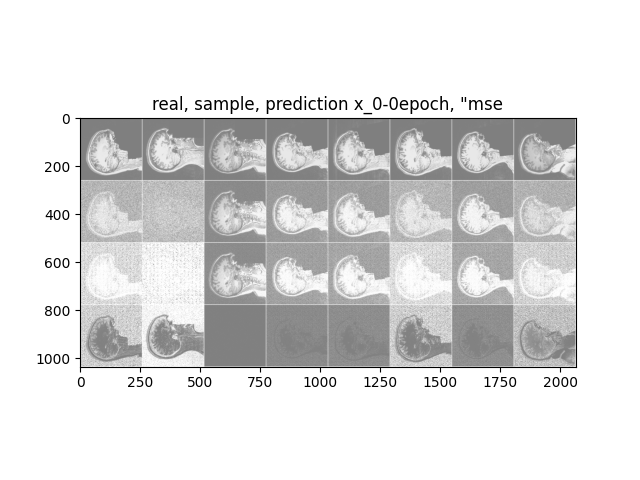
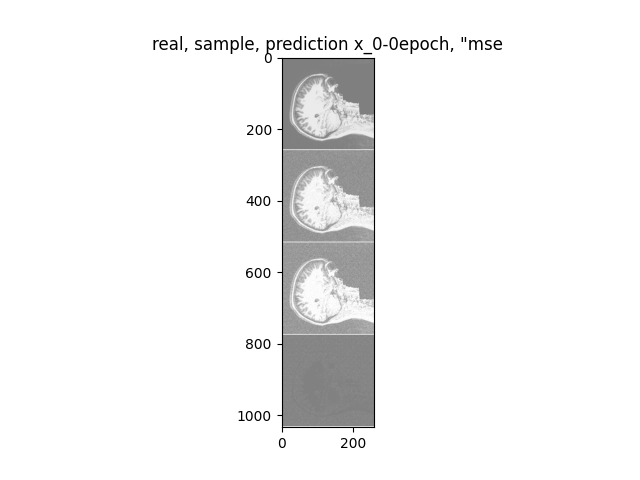
Update training configurations and adjust dataset parameters

diff --git a/utils/dataset.py b/utils/dataset.py
@@ -791,6 +791,7 @@ class MRIDataset(Dataset):
                 img = nib.load(img_name)
                 image = img.get_fdata()                
                 mask = torch.zeros(image.shape)
+                
             image_mean = np.mean(image)
             image_std = np.std(image)
             img_range = (image_mean - 1 * image_std, image_mean + 2 * image_std)
@@ -808,9 +809,9 @@ class MRIDataset(Dataset):
         else:
             slice_idx = 120
         
-        image = torch.from_numpy(image[:, :, slice_idx:slice_idx + 1]).float().reshape(self.shp)
+        image = torch.from_numpy(image[ :, :, slice_idx:slice_idx + 1]).float().reshape(self.shp)
 #         .reshape(self.shp).astype(np.float32)
-        mask = mask[:, :, slice_idx:slice_idx + 1].float().reshape(self.shp)
+        mask = mask[:,:,slice_idx:slice_idx + 1].float().reshape(self.shp)
         #mask = torch.from_numpy(mask[:, :, slice_idx:slice_idx + 1]).float().reshape(self.shp)
 #         .reshape(self.shp).astype(np.float32)  
         label = 1 if mask.max()>0 else 0
@@ -820,6 +821,86 @@ class MRIDataset(Dataset):
         sample = {'image': image, "filenames": self.filenames[idx], "mask": mask, "label" : label}
         return sample
     
+# class MRIDataset(Dataset):
+#     def __init__(self, ROOT_DIR, transform=False, img_size=(32, 32), random_slice=False, is_anno=False, is_train=True):
+#         self.is_anno = is_anno
+#         self.transform = transforms.Compose(
+#             [transforms.ToPILImage(),
+#              transforms.CenterCrop(155),
+#              transforms.Resize(img_size, transforms.InterpolationMode.BILINEAR),
+#              transforms.ToTensor()
+#             ]
+#         ) if transform else False
+
+#         split_ratio = 0.5
+#         train_test_filenames = os.listdir(ROOT_DIR)
+#         random.shuffle(train_test_filenames)
+#         split_index = int(split_ratio * len(train_test_filenames))
+#         training_set = train_test_filenames[:split_index]
+#         testing_set  = train_test_filenames[split_index:]
+
+#         self.filenames = training_set if is_train else testing_set
+#         if ".DS_Store" in self.filenames:
+#             self.filenames.remove(".DS_Store")
+#         self.ROOT_DIR = ROOT_DIR
+#         self.random_slice = random_slice
+#         self.shp = (240, 240) if is_anno else (256, 256)
+
+#     def __len__(self):
+#         return len(self.filenames)
+
+#     def __getitem__(self, idx):
+#         if torch.is_tensor(idx):
+#             idx = idx.tolist()
+
+#         npy_path = os.path.join(self.ROOT_DIR, self.filenames[idx], f"{self.filenames[idx]}.npy")
+#         if os.path.exists(npy_path):
+#             # WARNING: cached .npy might be in non-RAS axis order.
+#             image = np.load(npy_path)
+
+#             # If your cached volumes were saved as (Z, X, Y) or similar, standardize to (X, Y, Z).
+#             # Example for (Z, X, Y) -> (X, Y, Z):
+#             if image.shape[0] in (150, 192, 240) and image.shape[2] in (240, 256) and image.shape[1] in (240, 256):
+#                 # guess it's (Z, X, Y) -> moveaxis(0->2)
+#                 image = np.moveaxis(image, 0, 2)
+#         else:
+#             if self.is_anno:
+#                 img_name  = os.path.join(self.ROOT_DIR, self.filenames[idx], f"{self.filenames[idx]}_flair.nii.gz")
+#                 seg_name  = os.path.join(self.ROOT_DIR, self.filenames[idx], f"{self.filenames[idx]}_seg.nii.gz")
+#                 img = nib.load(img_name); img = nib.as_closest_canonical(img)  # <- reorient to RAS
+#                 msk = nib.load(seg_name); msk = nib.as_closest_canonical(msk)  # <- reorient to RAS
+#                 image = img.get_fdata()      # (X, Y, Z)
+#                 mask  = msk.get_fdata()      # (X, Y, Z)  numpy
+#             else:
+#                 img_name = os.path.join(self.ROOT_DIR, self.filenames[idx], f"sub-{self.filenames[idx]}_ses-NFB3_T1w.nii.gz")
+#                 img = nib.load(img_name); img = nib.as_closest_canonical(img)   # <- reorient
+#                 image = img.get_fdata()                                        # (X, Y, Z)
+#                 mask  = np.zeros_like(image)                                   # numpy, not torch
+
+#             # intensity normalize
+#             image_mean = np.mean(image); image_std = np.std(image)
+#             lo, hi = (image_mean - 1*image_std, image_mean + 2*image_std)
+#             image = np.clip(image, lo, hi) / (hi - lo + 1e-8)
+
+#         # choose axial slice index (Z axis)
+#         slice_idx = randint(40, 100) if self.random_slice else 120
+#         slice_idx = max(0, min(slice_idx, image.shape[2]-1))  # clamp to valid range
+
+#         # --- AXIAL SLICES ---
+#         img2d  = image[:, :, slice_idx]        # axial (top-down)
+#         msk2d  = mask[:, :, slice_idx] if self.is_anno else np.zeros(self.shp, dtype=img2d.dtype)
+
+#         # to torch with target shape
+#         img_t  = torch.from_numpy(img2d).float().reshape(self.shp)
+#         msk_t  = torch.from_numpy(msk2d).float().reshape(self.shp)
+
+#         if self.transform:
+#             img_t = self.transform(img_t)
+#             msk_t = self.transform(msk_t)
+
+#         label = 1 if msk_t.max() > 0 else 0
+#         return {'image': img_t, 'filenames': self.filenames[idx], 'mask': msk_t, 'label': label}
+
 class MatTDataset(torch.utils.data.Dataset):
     def __init__(self, directory, transform=None, img_size = 256):
         
